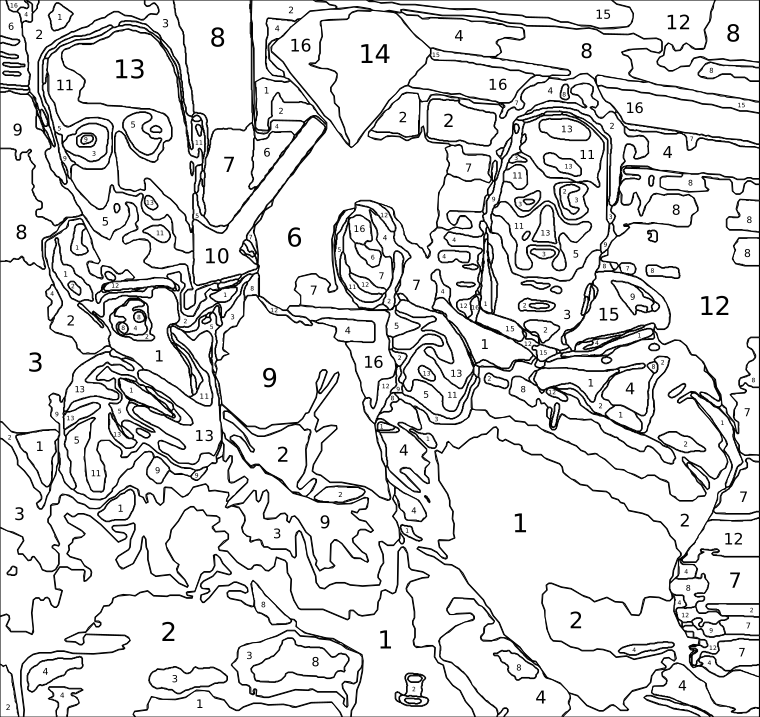
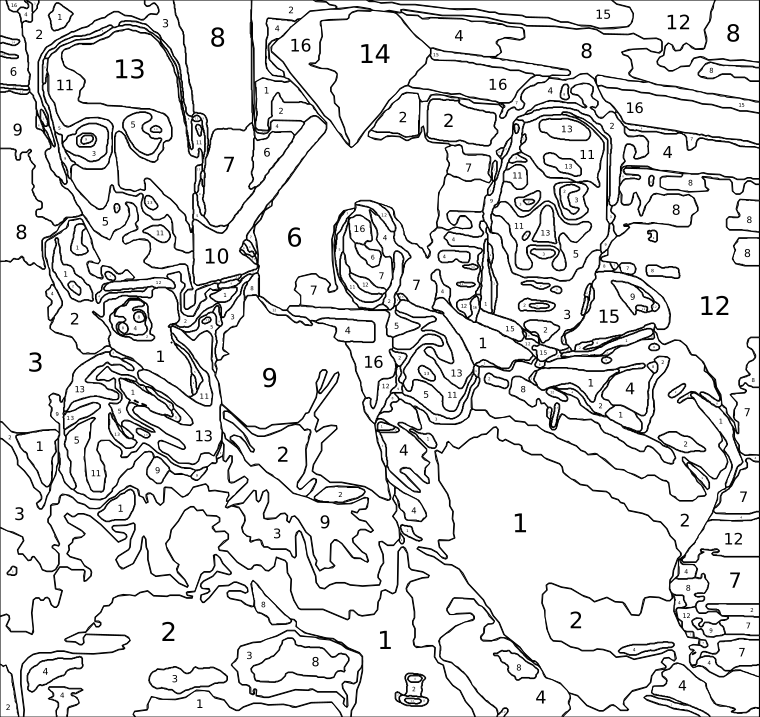
Docs: regenerate gallery; correct two palette-size captions
Same six sources and the same published settings, re-rendered so the gallery
shows what the code now produces: every region carries a number. The assets
also got slightly smaller, since there are 8-25% fewer regions to draw.

Two captions were wrong and had been for a while: fish-tunnel was labelled 17
colours and pixie 12, which is what was *requested*, while the palettes
actually resolve to 15 and 8 — k-means converges on fewer distinguishable
clusters than asked for. Verified against the Phase 17 measurements that this
predates the current work rather than being caused by it. The captions now
match what a reader can count in the legend.

diff --git a/README.md b/README.md
@@ -60,8 +60,8 @@
 | <img src="docs/gallery/stars-girl-original.jpg" width="250"><br><sub>24 цвета · Детально</sub> | <img src="docs/gallery/stars-girl-outline.png" width="250"> | <img src="docs/gallery/stars-girl-preview.png" width="250"> |
 | <img src="docs/gallery/demon-original.jpg" width="250"><br><sub>20 цветов · Детально</sub> | <img src="docs/gallery/demon-outline.png" width="250"> | <img src="docs/gallery/demon-preview.png" width="250"> |
 | <img src="docs/gallery/meme-original.jpg" width="250"><br><sub>16 цветов · Детально</sub> | <img src="docs/gallery/meme-outline.png" width="250"> | <img src="docs/gallery/meme-preview.png" width="250"> |
-| <img src="docs/gallery/fish-tunnel-original.jpg" width="250"><br><sub>17 цветов · Детально</sub> | <img src="docs/gallery/fish-tunnel-outline.png" width="250"> | <img src="docs/gallery/fish-tunnel-preview.png" width="250"> |
-| <img src="docs/gallery/pixie-original.jpg" width="250"><br><sub>12 цветов · Детально</sub> | <img src="docs/gallery/pixie-outline.png" width="250"> | <img src="docs/gallery/pixie-preview.png" width="250"> |
+| <img src="docs/gallery/fish-tunnel-original.jpg" width="250"><br><sub>15 цветов · Детально</sub> | <img src="docs/gallery/fish-tunnel-outline.png" width="250"> | <img src="docs/gallery/fish-tunnel-preview.png" width="250"> |
+| <img src="docs/gallery/pixie-original.jpg" width="250"><br><sub>8 цветов · Детально</sub> | <img src="docs/gallery/pixie-outline.png" width="250"> | <img src="docs/gallery/pixie-preview.png" width="250"> |
 
 ## Архитектура
 

diff --git a/README.en.md b/README.en.md
@@ -59,8 +59,8 @@ preview of the painted result. Colour count and detail level are tuned per image
 | <img src="docs/gallery/stars-girl-original.jpg" width="250"><br><sub>24 colours · Detailed</sub> | <img src="docs/gallery/stars-girl-outline.png" width="250"> | <img src="docs/gallery/stars-girl-preview.png" width="250"> |
 | <img src="docs/gallery/demon-original.jpg" width="250"><br><sub>20 colours · Detailed</sub> | <img src="docs/gallery/demon-outline.png" width="250"> | <img src="docs/gallery/demon-preview.png" width="250"> |
 | <img src="docs/gallery/meme-original.jpg" width="250"><br><sub>16 colours · Detailed</sub> | <img src="docs/gallery/meme-outline.png" width="250"> | <img src="docs/gallery/meme-preview.png" width="250"> |
-| <img src="docs/gallery/fish-tunnel-original.jpg" width="250"><br><sub>17 colours · Detailed</sub> | <img src="docs/gallery/fish-tunnel-outline.png" width="250"> | <img src="docs/gallery/fish-tunnel-preview.png" width="250"> |
-| <img src="docs/gallery/pixie-original.jpg" width="250"><br><sub>12 colours · Detailed</sub> | <img src="docs/gallery/pixie-outline.png" width="250"> | <img src="docs/gallery/pixie-preview.png" width="250"> |
+| <img src="docs/gallery/fish-tunnel-original.jpg" width="250"><br><sub>15 colours · Detailed</sub> | <img src="docs/gallery/fish-tunnel-outline.png" width="250"> | <img src="docs/gallery/fish-tunnel-preview.png" width="250"> |
+| <img src="docs/gallery/pixie-original.jpg" width="250"><br><sub>8 colours · Detailed</sub> | <img src="docs/gallery/pixie-outline.png" width="250"> | <img src="docs/gallery/pixie-preview.png" width="250"> |
 
 ## Architecture
 
